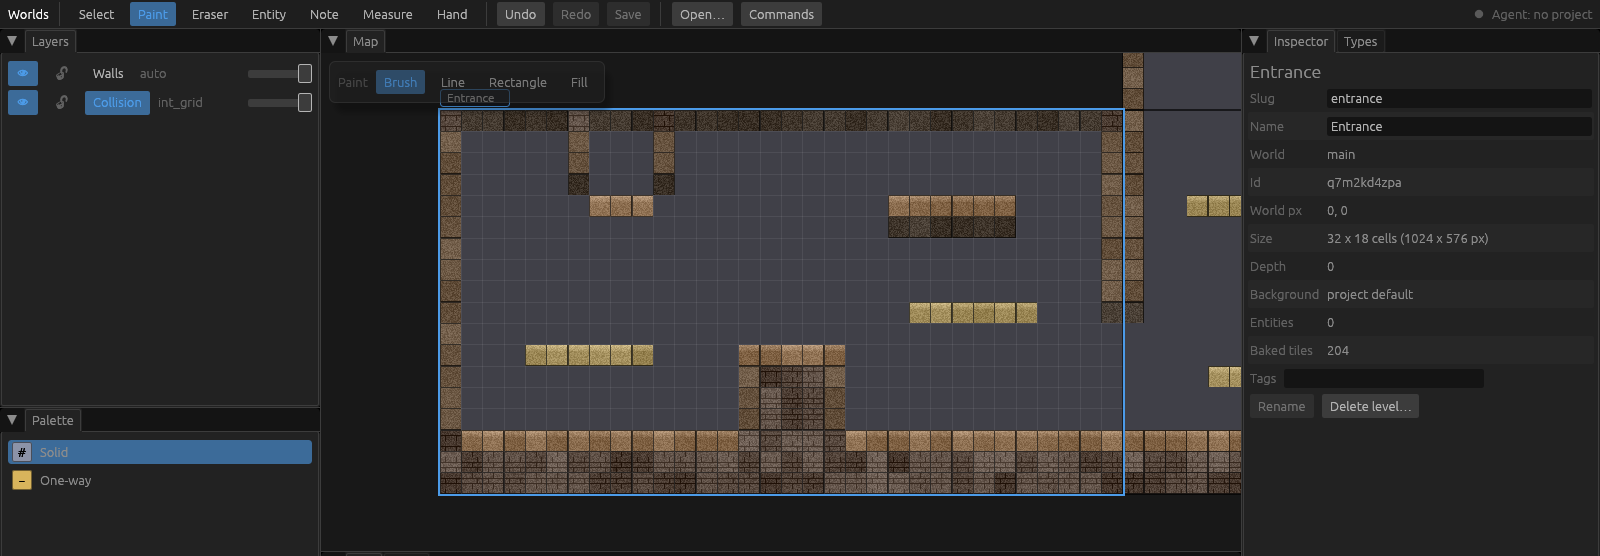
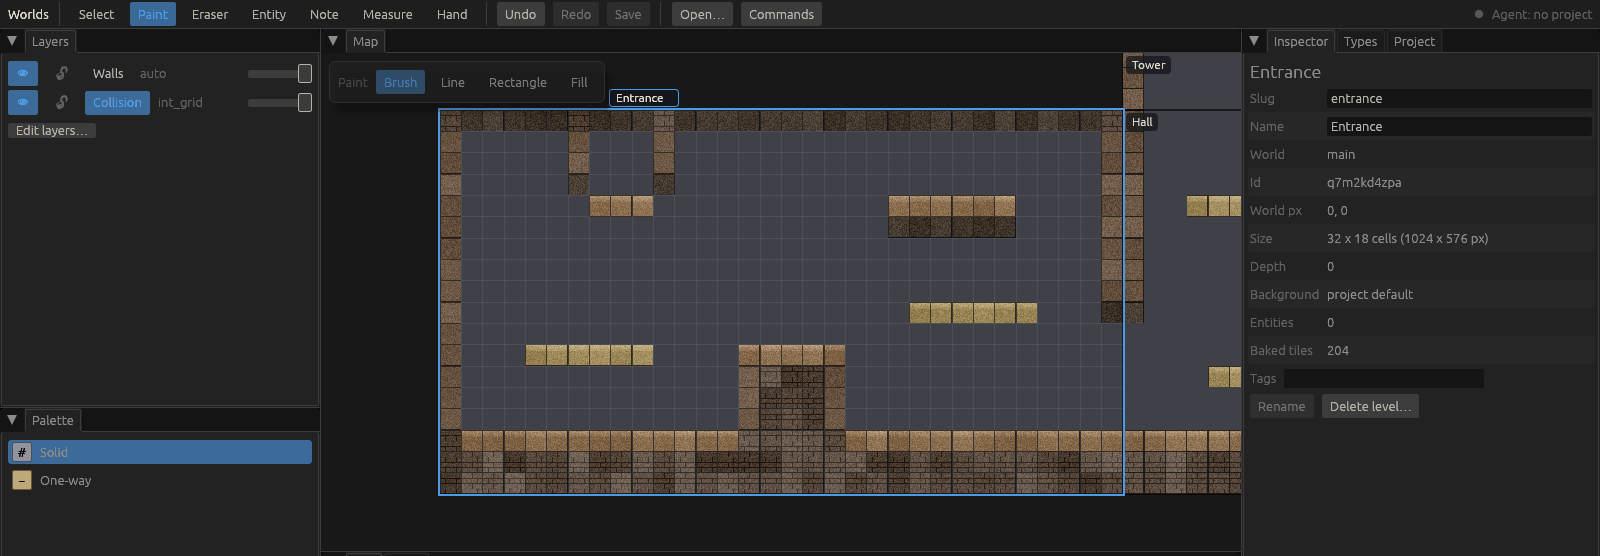
Tutorial: re-render every screenshot from the current editor
All eleven images in screenshots/tutorial/ are rendered again with
`worlds --screenshot` from a fresh dungeon.worlds built step by step, so
they show the Project tab, the Paint strip no longer covering the level
name tab, every level name when zoomed out, and the current Rules,
Types and Inspector panes. Same names, sizes and crops as before.

The Rules pane section no longer says rules can't be renamed: it walks
through renaming the new group and rules inline (double-click the slug).

diff --git a/docs/tutorial.md b/docs/tutorial.md
@@ -296,9 +296,12 @@ That's what you want for a ceiling.
 Click **Walls** in the Layers pane; the **Rules** tab comes to the front.
 
 1. Click **+ Group** (top right). A group is a list of rules that run
-   together. Give it a name, `Terrain`, in the field under its header.
+   together. It starts out as `group`: double-click that slug, type
+   `terrain` and press Enter. Give it a display name, `Terrain`, in the
+   field under its header.
 2. Click **+ Rule** on the group's header. A new rule appears, selected,
-   matching any value and drawing tile `[0, 0]`.
+   matching any value and drawing tile `[0, 0]`. It's called `rule`;
+   double-click the name and rename it `top` the same way.
 3. In the **text box** under the pattern grid, replace `+` with the three
    rows above (Shift+Enter for a new line), then press **Enter**. You can
    also click the grid cells to cycle their glyphs; the box and the grid are
@@ -325,11 +328,11 @@ The moment you press Enter the level re-tiles. Now add the other four with
 match, so one rule handles both walls. Rows can be dragged by their `☰`
 handle to reorder them.
 
-The pane names new rules `rule`, `rule_2`, and so on, and can't rename them
-yet. The names are only for you (and they feed the dice, so renaming a rule
-re-rolls its random choices). If you'd like readable ones, as in the
-screenshots, save, change the `slug`s in `rules/walls.json`, and the editor
-reloads it.
+Each new rule comes in as `rule` (or `rule_2` and so on, if that's taken);
+double-click its name (or right-click it, **Rename…**) and give it the one
+in the table. Enter
+renames, Escape cancels, and it's one undo step. The names are only for you
+(and they feed the dice, so renaming a rule re-rolls its random choices).
 
 ![The Rules pane with the side rule selected](../screenshots/tutorial/04-rules-pane.png)
 
